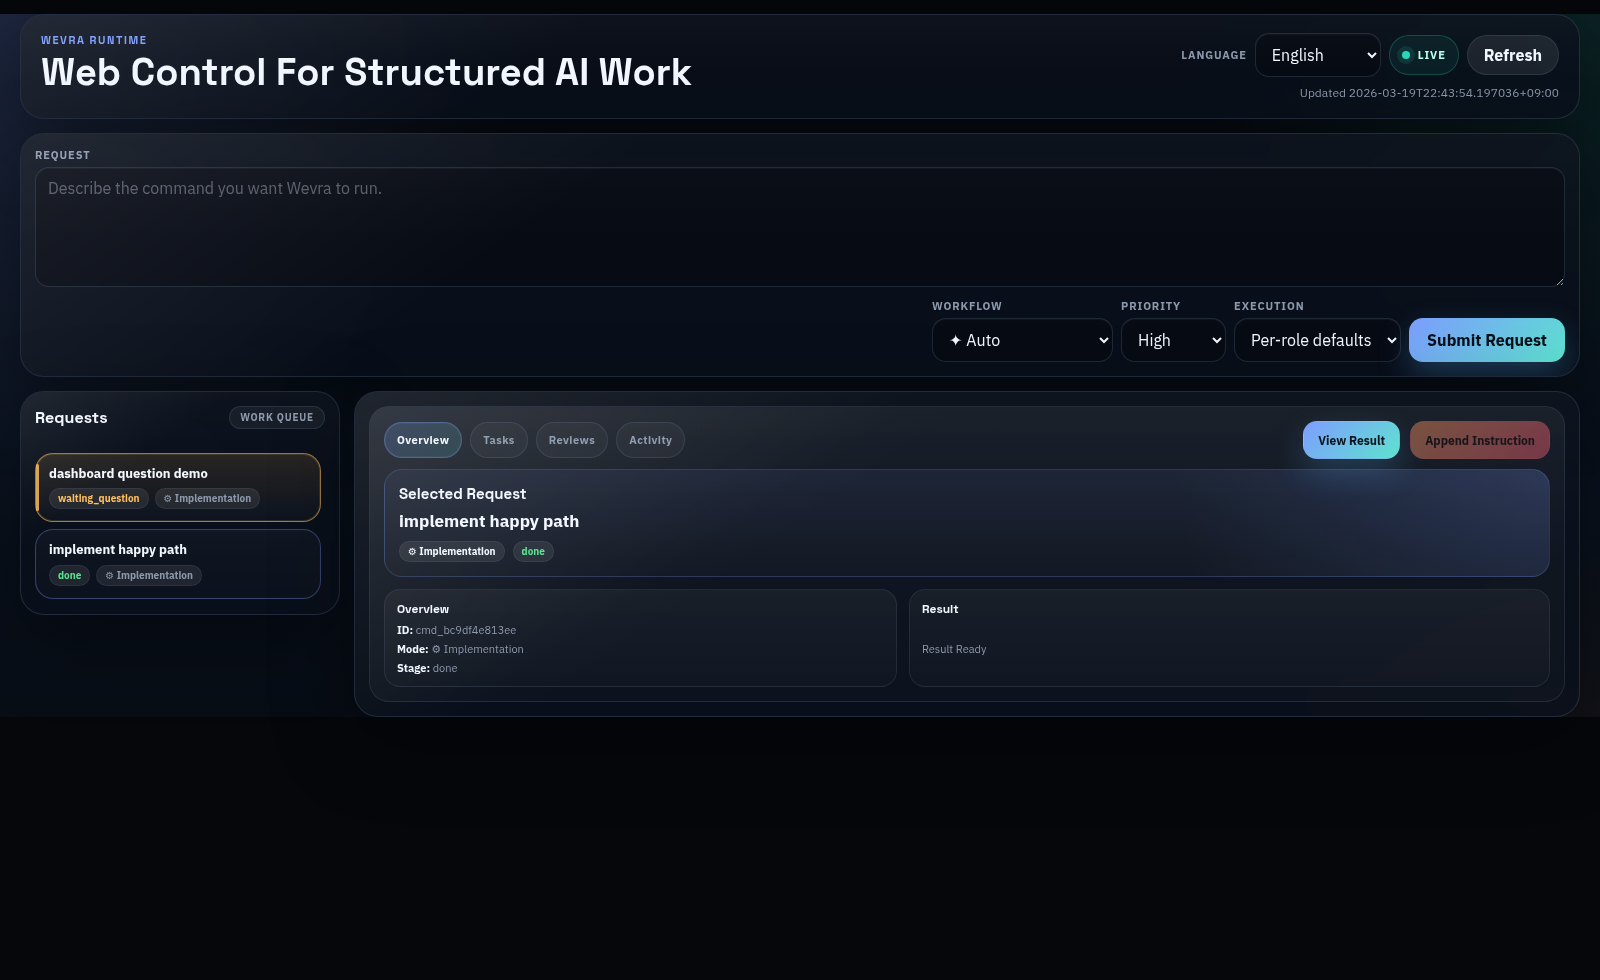
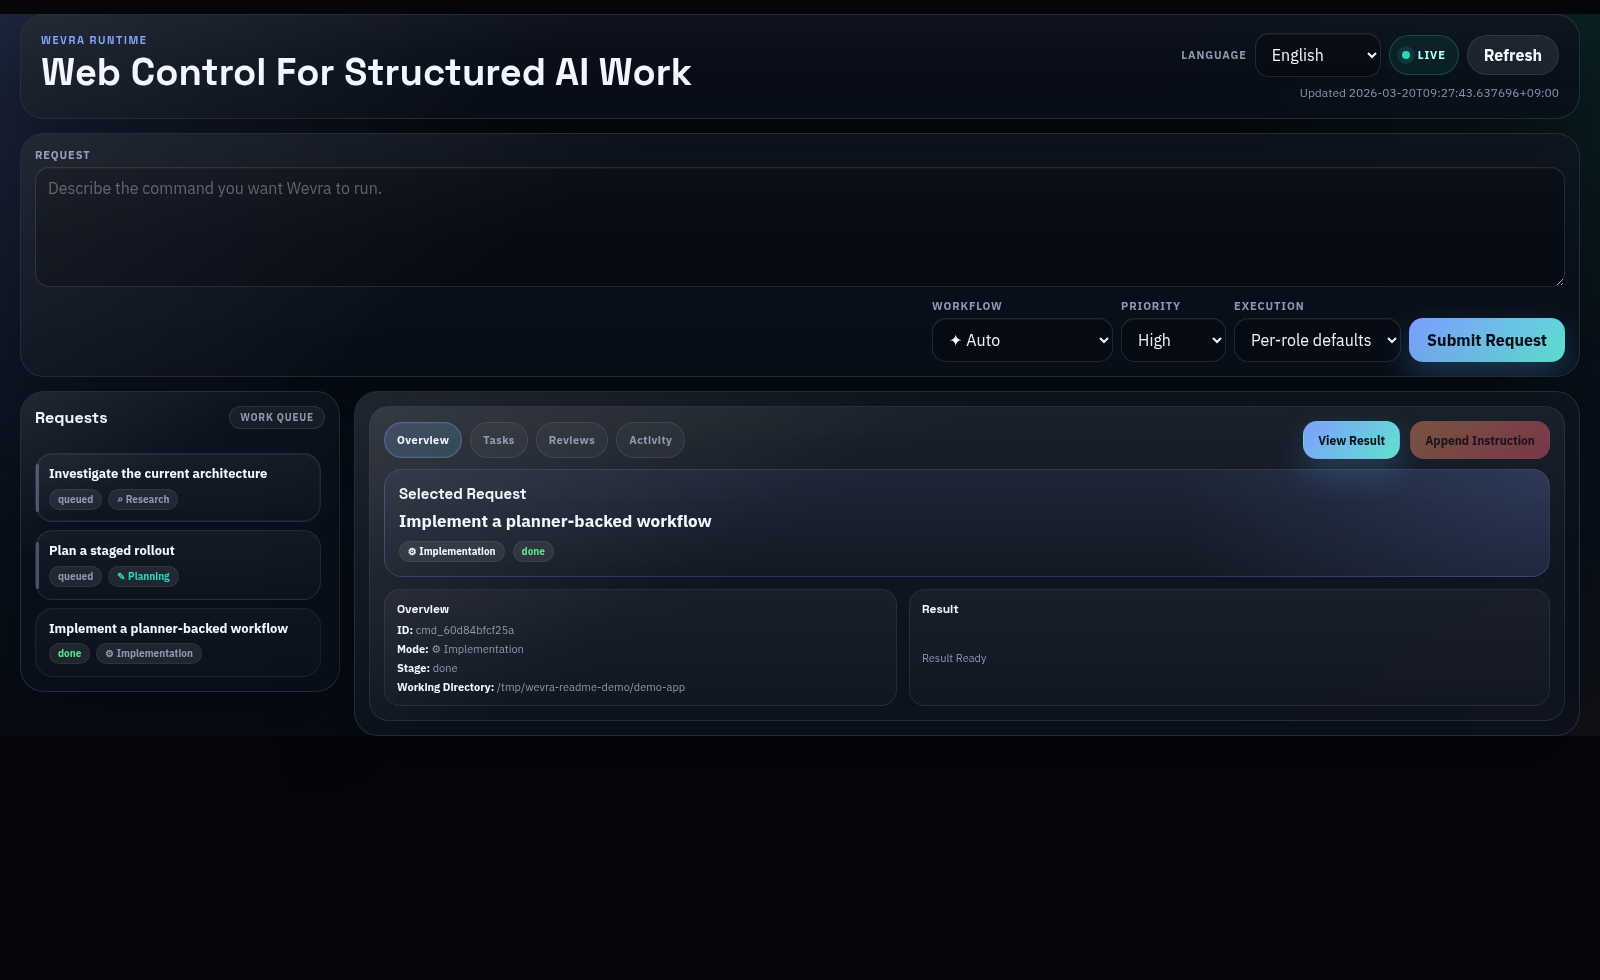
Clarify mock runtime docs and refresh screenshots

diff --git a/README.ja.md b/README.ja.md
@@ -35,8 +35,8 @@ SQLite を別途インストールする必要はありません。
 
 `./wevra init` のあと、必要に応じて生成されたローカル設定ファイルを編集します。
 
-- `wevra.ini`: workspace、dashboard の host と port、通知、runtime の既定値、CLI 用の home 上書き
-- `agents.ini`: role ごとの backend と model
+- `wevra.ini`: workspace、dashboard の host と port、通知、runtime の既定値、CLI 用の `HOME` 上書き
+- `agents.ini`: role ごとの実行先と model
 - `.env`: `DISCORD_WEBHOOK_URL` のようなローカル secret
 
 既定値のままで問題なければ、この手順は飛ばしてそのまま起動できます。
@@ -144,7 +144,7 @@ runtime、UI、通知まわりの挙動を設定します。
 
 ### `agents.ini`
 
-role ごとに、どの AI 実行先と model を使うかを設定します。
+role ごとに、どの実行先と model を使うかを設定します。
 
 - `runtime`: その role をどの実行先で動かすか
 - `model`: その実行先に渡す model 名
@@ -162,6 +162,8 @@ role ごとに、どの AI 実行先と model を使うかを設定します。
 
 `runtime` に指定できる値は `mock`、`codex`、`claude` です。
 
+`mock` は、デモ、ローカル開発、CI、フロー確認のための擬似実行先です。Codex や Claude を使った実際の実装やレビューは行いません。実運用するときは、`planner`、`implementer`、`reviewer` などを `codex` か `claude` に切り替えてから使ってください。
+
 ### `.env`
 
 設定ファイルから参照されるローカル secret や env 値を置きます。
@@ -175,3 +177,5 @@ role ごとに、どの AI 実行先と model を使うかを設定します。
 ```bash
 ./.venv/bin/pytest -q
 ```
+
+dashboard の UI を変更したときは、PR を出す前に `docs/images/dashboard-en.png` と `docs/images/dashboard-ja.png` も更新してください。

diff --git a/README.md b/README.md
@@ -37,9 +37,8 @@ No separate SQLite install is required.
 
 After `./wevra init`, adjust the generated local config files as needed:
 
-- `wevra.ini`: working directory, dashboard host and port, notifications, and runtime defaults
-- `wevra.ini`: working directory, dashboard host and port, notifications, runtime defaults, and an optional CLI home override
-- `agents.ini`: which backend and model each role should use
+- `wevra.ini`: working directory, dashboard host and port, notifications, runtime defaults, and an optional CLI `HOME` override
+- `agents.ini`: which runtime and model each role should use
 - `.env`: local secrets such as `DISCORD_WEBHOOK_URL`
 
 If the defaults already fit your environment, you can skip this step and start Wevra immediately.
@@ -147,9 +146,9 @@ Controls runtime, UI, and notification behavior.
 
 ### `agents.ini`
 
-Controls which AI runtime and model each role uses.
+Controls which runtime and model each role uses.
 
-- `runtime`: which execution runtime to use for that role
+- `runtime`: which execution target to use for that role
 - `model`: which model name to pass to that runtime
 - `count`: how many workers to run in parallel for that role
 
@@ -165,6 +164,8 @@ Controls which AI runtime and model each role uses.
 
 Supported `runtime` values are `mock`, `codex`, and `claude`.
 
+`mock` is for demos, local development, CI, and flow verification. It does not perform real implementation or review work through Codex or Claude. Before using Wevra for real work, switch roles such as `planner`, `implementer`, and `reviewer` to `codex` or `claude`.
+
 ### `.env`
 
 Stores local secrets and env values referenced by the config files.
@@ -178,3 +179,5 @@ Stores local secrets and env values referenced by the config files.
 ```bash
 ./.venv/bin/pytest -q
 ```
+
+If you change the dashboard UI, refresh `docs/images/dashboard-en.png` and `docs/images/dashboard-ja.png` before opening a PR.
